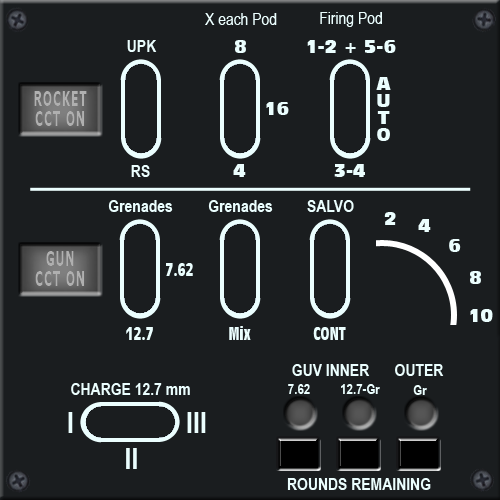
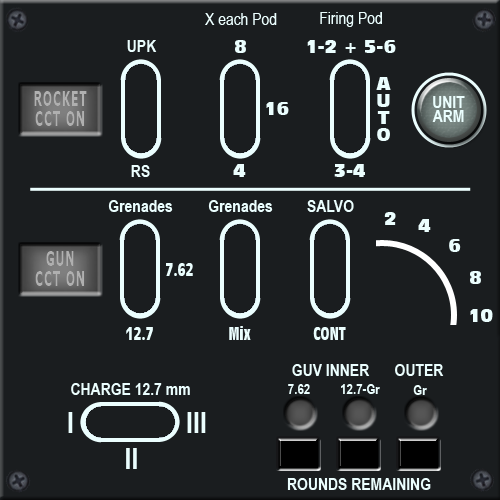
Weapon panel debug

Changed region(s): [[0.81, 0.12, 0.99, 0.3]]

diff --git a/Mi8-Pit.html b/Mi8-Pit.html
@@ -1205,7 +1205,7 @@
 	
 	<!-- Selecteur Side , Quant/Num , On/OFF-->
 	<SPAN style="position: absolute; left: 20px; top: 152px; width: 100px; height: 40px">
-	<img src="images/Switch-Metal-L3.gif" width="100" height="40" id="UV_SW_LR" usemap="#UV_LR"> </SPAN>
+	<img src="images/switch/Switch-Metal-L4.png" width="100" height="40" id="UV_SW_LR" usemap="#UV_LR"> </SPAN>
 	<map name="UV_LR">	
 	<area shape="rect" coords="0,0,32,40"  href="javascript:CmdDCSRaw('14800200')"> 
 	<area shape="rect" coords="33,0,66,40"  href="javascript:CmdDCSRaw('44800205')"> 
@@ -1292,6 +1292,25 @@
 	
 	<SPAN style="position: absolute; left: 435px; top: 70px; width: 30px; height: 30px">
 	<img src="images/weapon/Btn-Rd_vert.gif" width="30" height="30"  id="WPN-Pre6">	</SPAN>
+	
+	<!-- Voyant armement -->
+	<SPAN style="position: absolute; left: 35px; top: 70px; width: 30px; height: 30px">
+	<img src="images/weapon/Btn-Circle_orange.png" width="30" height="30"  id="WPN-Arm1">	</SPAN>
+	
+	<SPAN style="position: absolute; left: 95px; top: 70px; width: 30px; height: 30px">
+	<img src="images/weapon/Btn-Circle_orange.png" width="30" height="30"  id="WPN-Arm2">	</SPAN>
+
+	<SPAN style="position: absolute; left: 155px; top: 70px; width: 30px; height: 30px">
+	<img src="images/weapon/Btn-Circle_orange.png" width="30" height="30"  id="WPN-Arm3">	</SPAN>
+	
+	<SPAN style="position: absolute; left: 315px; top: 70px; width: 30px; height: 30px">
+	<img src="images/weapon/Btn-Circle_orange.png" width="30" height="30"  id="WPN-Arm4">	</SPAN>
+	
+	<SPAN style="position: absolute; left: 375px; top: 70px; width: 30px; height: 30px">
+	<img src="images/weapon/Btn-Circle_orange.png" width="30" height="30"  id="WPN-Arm5">	</SPAN>
+	
+	<SPAN style="position: absolute; left: 435px; top: 70px; width: 30px; height: 30px">
+	<img src="images/weapon/Btn-Circle_orange.png" width="30" height="30"  id="WPN-Arm6">	</SPAN>
 
 	<!-- Affichage Type Arme -->
 	<SPAN style="position: absolute; left: 30px; top: 112px; width: 40px; height: 30px ; text-align:center; color:green" id="WPN-Type1">	</SPAN>
@@ -1321,6 +1340,14 @@
 			<area shape="circle" coords="455,250,20" href="javascript:CmdDCSRaw('41204306')">
 			<area shape="circle" coords="475,280,20" href="javascript:CmdDCSRaw('41204308')">
 			<area shape="circle" coords="480,320,20" href="javascript:CmdDCSRaw('11204301')">
+			
+			<!-- Unit Arm 	
+			<area id="M1" shape="rect" coords="75,65,125,85" href="javascript:radio_freq_mem(1)" onmouseover = "radio_cmd_start(radio_freq_mem,1)" onmouseout = "radio_cmd_stop()" style="cursor:progress">
+			<area shape="circle" coords="450,110,35" href="javascript:CmdDCSRaw('11204301')">-->
+			
+			<area shape="circle" coords="450,110,35" onmouseover = "javascript:CmdDCSRaw('11203101')" onmouseout = "javascript:CmdDCSRaw('11203100')" style="cursor:progress"">
+			
+			
 	
 	</map> 
 	
@@ -1407,13 +1434,13 @@
 	
 	<!-- Voyant Remaining Round -->
 	<SPAN style="position: absolute; left: 285px; top: 399px; width: 30px; height: 30px">
-	<img src="images/weapon/Btn-Rd_rouge.gif" width="30" height="30"  id="WPN-GUV1">	</SPAN>
+	<img src="images/weapon/Btn-Rd_rouge.png" width="30" height="30"  id="WPN-GUV1">	</SPAN>
 	
 	<SPAN style="position: absolute; left: 343px; top: 399px; width: 30px; height: 30px">
-	<img src="images/weapon/Btn-Rd_rouge.gif" width="30" height="30"  id="WPN-GUV2">	</SPAN>
+	<img src="images/weapon/Btn-Rd_rouge.png" width="30" height="30"  id="WPN-GUV2">	</SPAN>
 
 	<SPAN style="position: absolute; left: 405px; top: 399px; width: 30px; height: 30px">
-	<img src="images/weapon/Btn-Rd_rouge.gif" width="30" height="30"  id="WPN-GUV3">	</SPAN>
+	<img src="images/weapon/Btn-Rd_rouge.png" width="30" height="30"  id="WPN-GUV3">	</SPAN>
 	
 
 	<!-- Affichage Qty Round -->

diff --git a/js/panel_weapon.js b/js/panel_weapon.js
@@ -47,6 +47,13 @@ function panel_weapon_1(KaTZPit_data){
 	if (dataread_posit(KaTZPit_data["Wpn_Lamp"],2) ==1) {$("#WPN-Pre5").fadeIn()} else {$("#WPN-Pre5").fadeOut()}
 	if (dataread_posit(KaTZPit_data["Wpn_Lamp"],1) ==1) {$("#WPN-Pre6").fadeIn()} else {$("#WPN-Pre6").fadeOut()}
 	
+	// Voyants d'armement des Weaponstation
+	// Voyant n°1 >> WPS 1et2 , n°3>WPS3 , n°4>>WPS4 , n°6 >> WPS 5 et 6
+	if (dataread_posit(KaTZPit_data["Wpn_Flag"],4) ==1) {$("#WPN-Arm1").fadeIn() ; $("#WPN-Arm2").fadeIn()} else {$("#WPN-Arm1").fadeOut() ; $("#WPN-Arm2").fadeOut()}
+	if (dataread_posit(KaTZPit_data["Wpn_Flag"],3) ==1) {$("#WPN-Arm3").fadeIn()} else {$("#WPN-Arm3").fadeOut()}
+	if (dataread_posit(KaTZPit_data["Wpn_Flag"],2) ==1) {$("#WPN-Arm4").fadeIn()} else {$("#WPN-Arm4").fadeOut()}
+	if (dataread_posit(KaTZPit_data["Wpn_Flag"],1) ==1) {$("#WPN-Arm5").fadeIn() ; $("#WPN-Arm6").fadeIn()} else {$("#WPN-Arm5").fadeOut() ; $("#WPN-Arm6").fadeOut()}
+	
 	// Switch Master Arm
 	if (dataread_posit(KaTZPit_data["Wpn_1"],3) ==1) {$("#Wpn_Master_SW").attr('src','images/switch/Switch-Metal-U4.png')} 
 	else {$("#Wpn_Master_SW").attr('src','images/switch/Switch-Metal-D4.png')}
@@ -160,9 +167,9 @@ function panel_weapon_2(KaTZPit_data){
 	if (dataread_posit(KaTZPit_data["Wpn_2"],6) ==1) {$("#WPN-GUV2").fadeIn()} else {$("#WPN-GUV2").fadeOut()}
 	if (dataread_posit(KaTZPit_data["Wpn_2"],5) ==1) {$("#WPN-GUV3").fadeIn()} else {$("#WPN-GUV3").fadeOut()}
 	
-	var Wpn1 = (dataread_posit(KaTZPit_data["Wpn_Ammo"],2)+5) *100 + (dataread_posit(KaTZPit_data["Wpn_Ammo"],1)+5) *10
+	var Wpn3 = (dataread_posit(KaTZPit_data["Wpn_Ammo"],2)+5) *100 + (dataread_posit(KaTZPit_data["Wpn_Ammo"],1)+5) *10
 	var Wpn2 = (dataread_posit(KaTZPit_data["Wpn_Ammo"],4)+5)*100 + (dataread_posit(KaTZPit_data["Wpn_Ammo"],3)+5)*10
-	var Wpn3 = (dataread_posit(KaTZPit_data["Wpn_Ammo"],6)+5)*100 + (dataread_posit(KaTZPit_data["Wpn_Ammo"],5)+5)*10
+	var Wpn1 = (dataread_posit(KaTZPit_data["Wpn_Ammo"],6)+5)*100 + (dataread_posit(KaTZPit_data["Wpn_Ammo"],5)+5)*10
 	
 	
 	document.getElementById('WPN-GUVQ1').innerHTML = Wpn1

diff --git a/js/menu.js b/js/menu.js
@@ -89,10 +89,11 @@ function menu_Toggle(panel){
 	document.getElementById("Panel_Weapon_1").style.display = "none" ;
 	document.getElementById("Panel_Weapon_2").style.display = "none" ;
 	document.getElementById("Panel_UV26").style.display = "none";
-	document.getElementById("Panel_Electric_AC").style.display = "block";
-	document.getElementById("Panel_Electric_DC").style.display = "block";
-	document.getElementById("Panel_APU").style.display = "block";
-	document.getElementById("Panel_Start").style.display = "block";	
+		if (Panel_On["Electric_AC"] == 1){document.getElementById("Panel_Electric_AC").style.display = "block"};
+		if (Panel_On["Electric_DC"] == 1){document.getElementById("Panel_Electric_DC").style.display = "block"};
+		if (Panel_On["APU"] == 1) {document.getElementById("Panel_APU").style.display = "block"};
+		if (Panel_On["Start"] == 1) {document.getElementById("Panel_Start").style.display = "block"};
+		
 	document.getElementById("Cadran_Clock").style.display = "block"
 	
 	}
@@ -106,13 +107,10 @@ function menu_Toggle(panel){
 	document.getElementById("Panel_APU").style.display = "none";
 	document.getElementById("Panel_Start").style.display = "none";
 	document.getElementById("Cadran_Clock").style.display = "none"
+	menu_reload_weapon_data()
 	
 		
 	}
-	
-	
-	
-
 		
 }
 
@@ -127,4 +125,13 @@ function menu_ARK9_init(){
 
 }
 
+function menu_reload_weapon_data(){
+
+	CmdSiocSpe(1014,0) ; 
+	CmdSiocSpe(1016,0) ;
+	CmdSiocSpe(1018,0) ;
+	CmdSiocSpe(1021,0) ;
+	CmdSiocSpe(1022,0) ;
+	CmdSiocSpe(1023,0) ;
 	
+}
